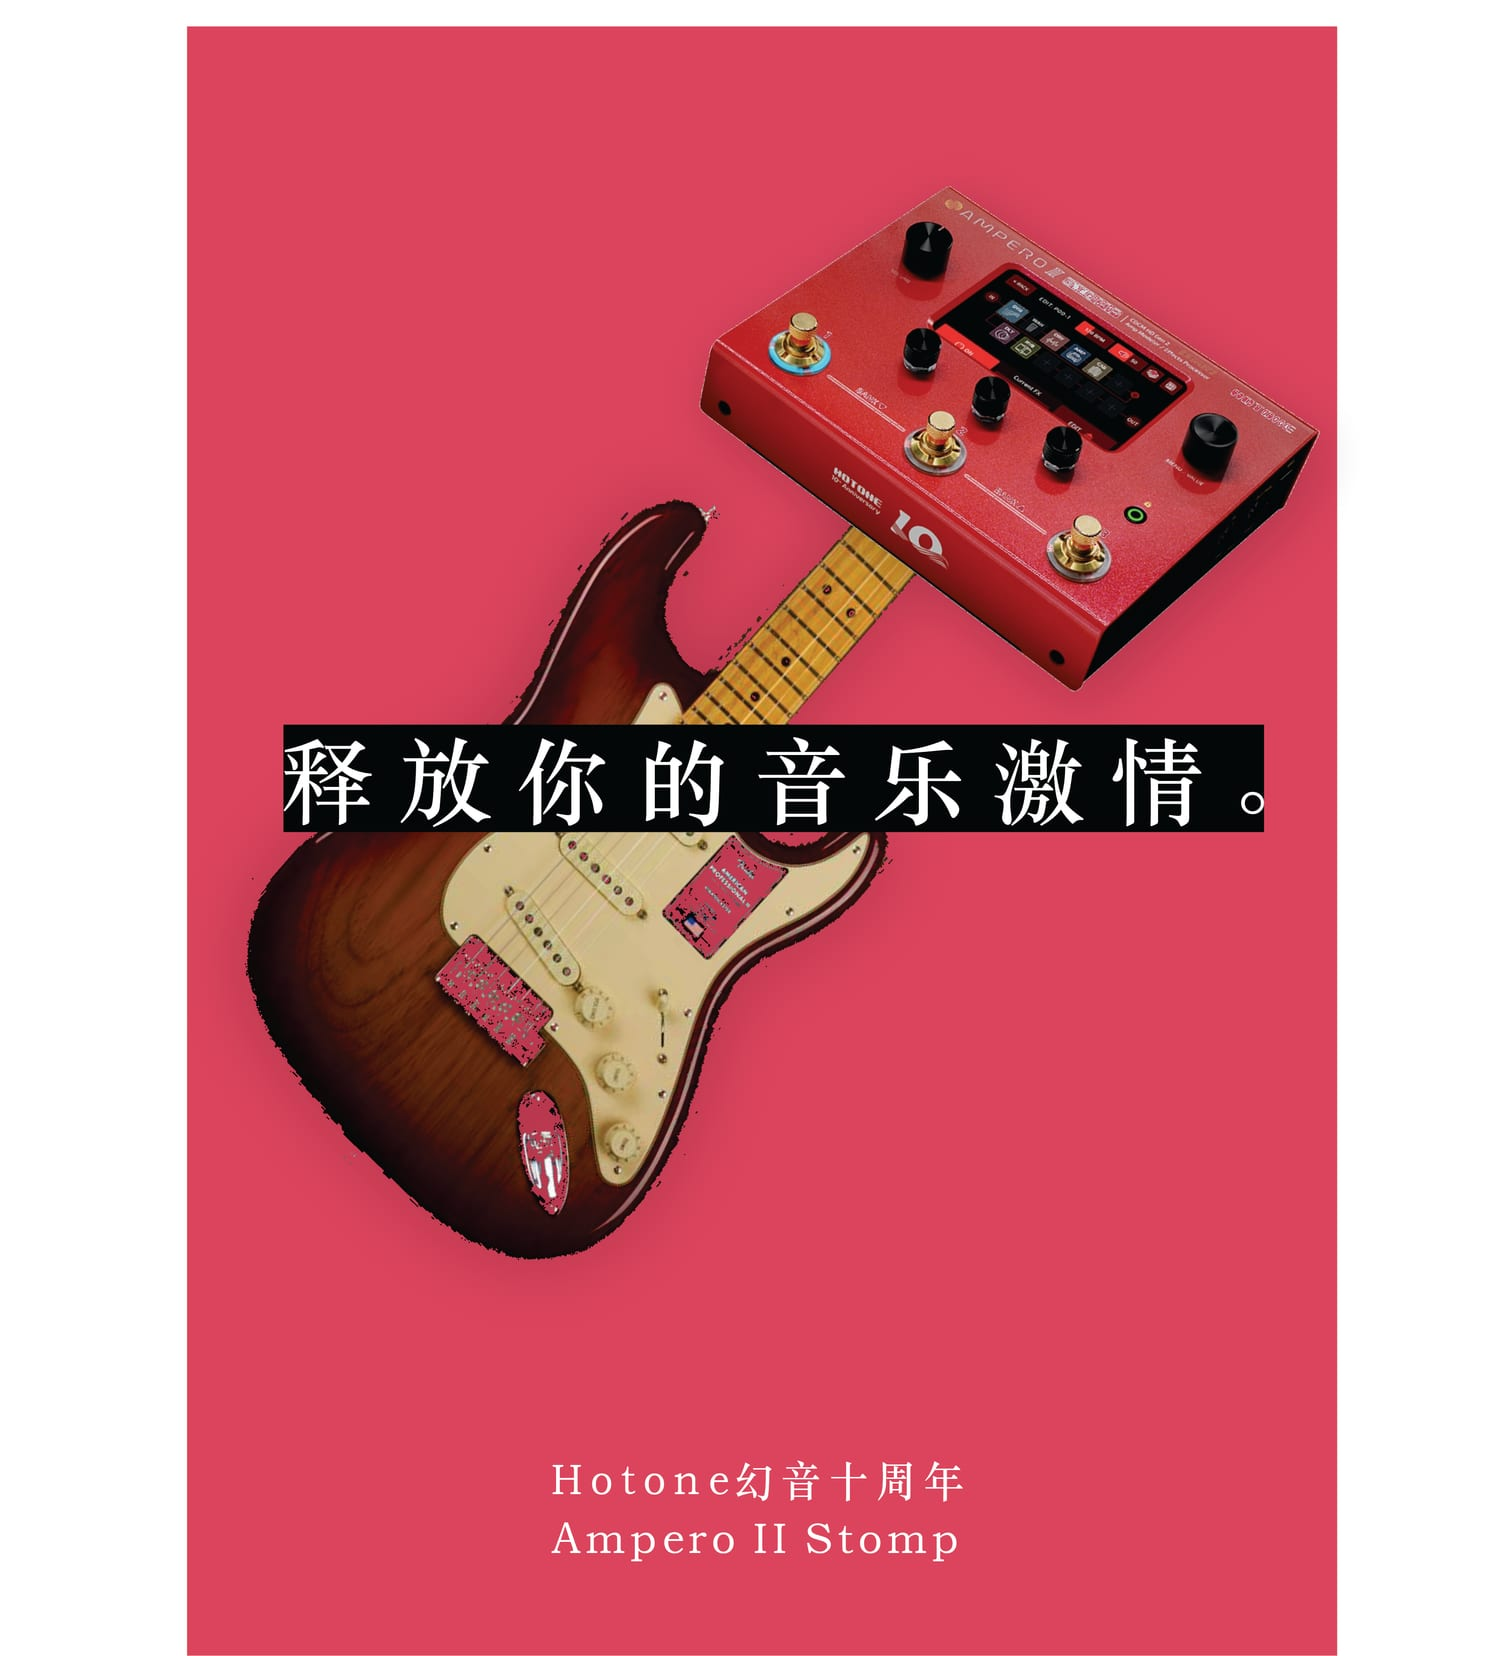
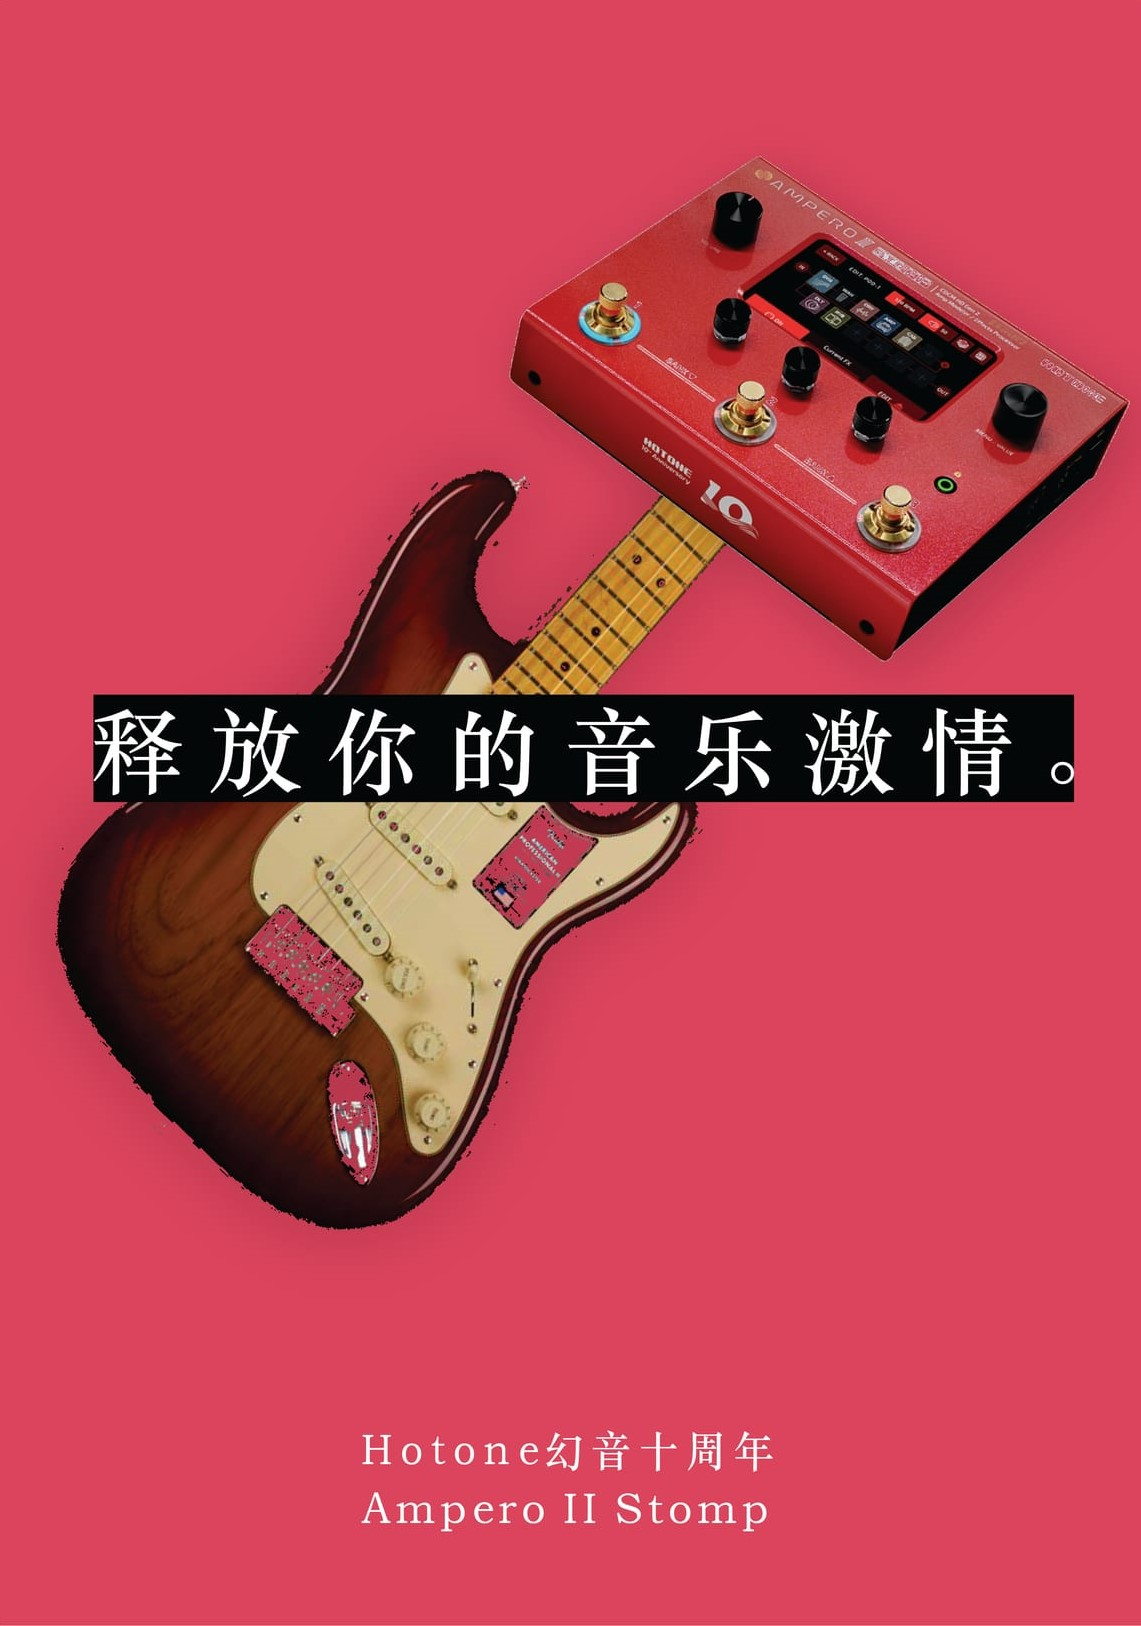
crop visual work media, drop piano duo, sync SUU start year
- sync cropped dimensions for hotone_main/guitar/pedal in html and tests
- replace banner_museum.jpg with png and remove piano_a/b from archive
- align i18n en/zh education dates with Aug 2023 start (a8d461d)
- update content-revision test to the corrected start year

diff --git a/i18n.js b/i18n.js
@@ -91,10 +91,8 @@ const en = {
     '#visual-archive .detail-media:nth-child(2) img': { alt: 'HOTONE product poster featuring an electric guitar and effects processor' },
     '#visual-archive .detail-media:nth-child(3) img': { alt: 'HOTONE Ampero II Stomp product-detail poster' },
     '#visual-archive .detail-media:nth-child(4) img': { alt: 'Coastline JAZZ NIGHT poster variation in orange and dark red' },
-    '#visual-archive .detail-media:nth-child(5) img': { alt: 'Minimal PIANO DUO concert poster' },
-    '#visual-archive .detail-media:nth-child(6) img': { alt: 'PIANO DUO concert poster variation' },
-    '#visual-archive .detail-media:nth-child(7) img': { alt: 'Laoshan folk-arts trifold brochure interior' },
-    '#visual-archive .detail-media:nth-child(8) img': { alt: 'International Museum Day banner for Wuhan Museum' },
+    '#visual-archive .detail-media:nth-child(5) img': { alt: 'Laoshan folk-arts trifold brochure interior' },
+    '#visual-archive .detail-media:nth-child(6) img': { alt: 'International Museum Day banner for Wuhan Museum' },
     '#visual-dialog': { 'aria-label': 'Enlarged visual work' },
     '#visual-dialog .dialog-close': { 'aria-label': 'Close image', 'title': 'Close (Esc)' },
     '#music-nav .lang-switch': { 'aria-label': 'Language' },
@@ -140,11 +138,9 @@ const en = {
     'hotone_pedal.jpg': 'HOTONE Ampero II Stomp product-detail poster',
     'jazz_coast_a.jpg': 'Coastline JAZZ NIGHT concert poster in magenta and deep blue',
     'jazz_coast_b.jpg': 'Coastline JAZZ NIGHT poster variation in orange and dark red',
-    'piano_a.jpg': 'Minimal PIANO DUO concert poster',
-    'piano_b.jpg': 'PIANO DUO concert poster variation',
     'trifold_out.jpg': 'Laoshan folk-arts trifold brochure exterior',
     'trifold_in.jpg': 'Laoshan folk-arts trifold brochure interior',
-    'banner_museum.jpg': 'International Museum Day banner for Wuhan Museum',
+    'banner_museum.png': 'International Museum Day banner for Wuhan Museum',
     'building.webp': 'White residential buildings against a clear blue sky',
     'chongqing.webp': 'Illuminated bridge structure at night in Chongqing',
     'santa_monica_beach.webp': 'A seabird crossing the sunset at Santa Monica Beach',
@@ -241,10 +237,8 @@ const en = {
     '#visual-archive .detail-media:nth-child(2) figcaption': 'HOTONE · Release Your Musical Passion',
     '#visual-archive .detail-media:nth-child(3) figcaption': 'HOTONE · Ampero II Stomp Detail',
     '#visual-archive .detail-media:nth-child(4) figcaption': 'JAZZ NIGHT · Variation',
-    '#visual-archive .detail-media:nth-child(5) figcaption': 'PIANO DUO · Main Poster',
-    '#visual-archive .detail-media:nth-child(6) figcaption': 'PIANO DUO · Variation',
-    '#visual-archive .detail-media:nth-child(7) figcaption': 'Laoshan Folk Arts · Trifold Interior',
-    '#visual-archive .detail-media:nth-child(8) figcaption': 'International Museum Day · Wuhan Museum',
+    '#visual-archive .detail-media:nth-child(5) figcaption': 'Laoshan Folk Arts · Trifold Interior',
+    '#visual-archive .detail-media:nth-child(6) figcaption': 'International Museum Day · Wuhan Museum',
     '#visual-footer span': 'Mukun Sun · Selected Visual Work',
     '#visual-footer a': 'Return to projects',
     '#music-nav .brand': 'Mukun Sun · Music',
@@ -400,7 +394,7 @@ const en = {
     '#projects .project-row:nth-child(3) .project-action': 'View project <span aria-hidden="true">→</span>',
     '#edu .stitle': 'Education',
     '#edu .edu-entry:nth-child(1) .edu-school': 'Southern Utah University',
-    '#edu .edu-entry:nth-child(1) .edu-dates': 'Aug 2025 — May 2027',
+    '#edu .edu-entry:nth-child(1) .edu-dates': 'Aug 2023 — May 2027',
     '#edu .edu-entry:nth-child(1) .edu-degree': 'B.S. in Strategic Communication',
     '#edu .edu-entry:nth-child(1) .edu-secondary': 'Minor · Business Analytics',
     '#edu .edu-entry:nth-child(1) .edu-focus': 'Coursework: Social Media Strategy, Social Media Branding, Strategic Campaigns, Content Creation, Statistical Inference, Data Analytics.',
@@ -515,10 +509,8 @@ const zh = {
     '#visual-archive .detail-media:nth-child(2) img': { alt: '电吉他与效果器构成的 HOTONE 产品海报' },
     '#visual-archive .detail-media:nth-child(3) img': { alt: 'HOTONE Ampero II Stomp 产品特写海报' },
     '#visual-archive .detail-media:nth-child(4) img': { alt: '暖橙与暗红配色的海岸线 JAZZ NIGHT 海报变体' },
-    '#visual-archive .detail-media:nth-child(5) img': { alt: '极简 PIANO DUO 演出海报' },
-    '#visual-archive .detail-media:nth-child(6) img': { alt: 'PIANO DUO 演出海报变体' },
-    '#visual-archive .detail-media:nth-child(7) img': { alt: '崂山民艺文化三折页内页' },
-    '#visual-archive .detail-media:nth-child(8) img': { alt: '武汉博物馆国际博物馆日活动 Banner' },
+    '#visual-archive .detail-media:nth-child(5) img': { alt: '崂山民艺文化三折页内页' },
+    '#visual-archive .detail-media:nth-child(6) img': { alt: '武汉博物馆国际博物馆日活动 Banner' },
     '#visual-dialog': { 'aria-label': '放大的视觉作品' },
     '#visual-dialog .dialog-close': { 'aria-label': '关闭图片', 'title': '关闭（Esc）' },
     '#music-nav .lang-switch': { 'aria-label': '语言' },
@@ -564,11 +556,9 @@ const zh = {
     'hotone_pedal.jpg': 'HOTONE Ampero II Stomp 产品特写海报',
     'jazz_coast_a.jpg': '洋红与深蓝配色的海岸线 JAZZ NIGHT 演出海报',
     'jazz_coast_b.jpg': '暖橙与暗红配色的海岸线 JAZZ NIGHT 海报变体',
-    'piano_a.jpg': '极简 PIANO DUO 演出海报',
-    'piano_b.jpg': 'PIANO DUO 演出海报变体',
     'trifold_out.jpg': '崂山民艺文化三折页外页',
     'trifold_in.jpg': '崂山民艺文化三折页内页',
-    'banner_museum.jpg': '武汉博物馆国际博物馆日活动 Banner',
+    'banner_museum.png': '武汉博物馆国际博物馆日活动 Banner',
     'building.webp': '晴朗蓝天下的白色住宅建筑',
     'chongqing.webp': '重庆夜色中被灯光照亮的桥梁结构',
     'santa_monica_beach.webp': '圣莫尼卡海滩日落前飞过的海鸟',
@@ -665,10 +655,8 @@ const zh = {
     '#visual-archive .detail-media:nth-child(2) figcaption': 'HOTONE · Release Your Musical Passion',
     '#visual-archive .detail-media:nth-child(3) figcaption': 'HOTONE · Ampero II Stomp 细节',
     '#visual-archive .detail-media:nth-child(4) figcaption': 'JAZZ NIGHT · 变体',
-    '#visual-archive .detail-media:nth-child(5) figcaption': 'PIANO DUO · 主海报',
-    '#visual-archive .detail-media:nth-child(6) figcaption': 'PIANO DUO · 变体',
-    '#visual-archive .detail-media:nth-child(7) figcaption': '崂山民艺 · 三折页内页',
-    '#visual-archive .detail-media:nth-child(8) figcaption': '国际博物馆日 · 武汉博物馆',
+    '#visual-archive .detail-media:nth-child(5) figcaption': '崂山民艺 · 三折页内页',
+    '#visual-archive .detail-media:nth-child(6) figcaption': '国际博物馆日 · 武汉博物馆',
     '#visual-footer span': '孙慕坤 · 视觉作品精选',
     '#visual-footer a': '返回项目列表',
     '#music-nav .brand': '孙慕坤 · 音乐',
@@ -824,7 +812,7 @@ const zh = {
     '#projects .project-row:nth-child(3) .project-action': '查看项目 <span aria-hidden="true">→</span>',
     '#edu .stitle': '教育经历',
     '#edu .edu-entry:nth-child(1) .edu-school': '南犹他大学',
-    '#edu .edu-entry:nth-child(1) .edu-dates': '2025.08 — 2027.05',
+    '#edu .edu-entry:nth-child(1) .edu-dates': '2023.08 — 2027.05',
     '#edu .edu-entry:nth-child(1) .edu-degree': '战略传播理学学士（在读）',
     '#edu .edu-entry:nth-child(1) .edu-secondary': '辅修 · 商业分析',
     '#edu .edu-entry:nth-child(1) .edu-focus': '课程：社交媒体策略、社交媒体品牌、战略传播活动、内容创作、统计推断、数据分析。',

diff --git a/projects/visual-work.html b/projects/visual-work.html
@@ -50,7 +50,7 @@
     <section class="detail-section" id="visual-lead" aria-labelledby="visual-lead-title" data-reveal>
       <h2 id="visual-lead-title">Selected work</h2>
       <div class="detail-grid">
-        <figure class="detail-media" data-reveal="media"><a class="media-button" href="../assets/visual_work/hotone_main.jpg" data-enlarge><img src="../assets/visual_work/hotone_main.jpg" width="1500" height="2120" alt="HOTONE tenth-anniversary product poster for the Ampero II Stomp" loading="lazy" decoding="async"></a><figcaption>HOTONE · Tenth-Anniversary Poster</figcaption></figure>
+        <figure class="detail-media" data-reveal="media"><a class="media-button" href="../assets/visual_work/hotone_main.jpg" data-enlarge><img src="../assets/visual_work/hotone_main.jpg" width="1486" height="2106" alt="HOTONE tenth-anniversary product poster for the Ampero II Stomp" loading="lazy" decoding="async"></a><figcaption>HOTONE · Tenth-Anniversary Poster</figcaption></figure>
         <figure class="detail-media" data-reveal="media"><a class="media-button" href="../assets/visual_work/jazz_coast_a.jpg" data-enlarge><img src="../assets/visual_work/jazz_coast_a.jpg" width="1300" height="1828" alt="Coastline JAZZ NIGHT concert poster in magenta and deep blue" loading="lazy" decoding="async"></a><figcaption>JAZZ NIGHT · Coastline</figcaption></figure>
         <figure class="detail-media" data-reveal="media"><a class="media-button" href="../assets/visual_work/trifold_out.jpg" data-enlarge><img src="../assets/visual_work/trifold_out.jpg" width="1800" height="1369" alt="Laoshan folk-arts trifold brochure exterior" loading="lazy" decoding="async"></a><figcaption>Laoshan Folk Arts · Trifold Exterior</figcaption></figure>
       </div>
@@ -60,13 +60,11 @@
       <h2 id="visual-archive-title">Archive</h2>
       <div class="detail-grid">
         <figure class="detail-media" data-reveal="media"><a class="media-button" href="../assets/visual_work/jazz_winter.jpg" data-enlarge><img src="../assets/visual_work/jazz_winter.jpg" width="989" height="1400" alt="Winter Jazz Concert key visual poster designed for a hotel jazz event" loading="lazy" decoding="async"></a><figcaption>Winter Jazz Concert · Hotel Event Visual</figcaption></figure>
-        <figure class="detail-media" data-reveal="media"><a class="media-button" href="../assets/visual_work/hotone_guitar.jpg" data-enlarge><img src="../assets/visual_work/hotone_guitar.jpg" width="1500" height="1656" alt="HOTONE product poster featuring an electric guitar and effects processor" loading="lazy" decoding="async"></a><figcaption>HOTONE · Release Your Musical Passion</figcaption></figure>
-        <figure class="detail-media" data-reveal="media"><a class="media-button" href="../assets/visual_work/hotone_pedal.jpg" data-enlarge><img src="../assets/visual_work/hotone_pedal.jpg" width="1500" height="1928" alt="HOTONE Ampero II Stomp product-detail poster" loading="lazy" decoding="async"></a><figcaption>HOTONE · Ampero II Stomp Detail</figcaption></figure>
+        <figure class="detail-media" data-reveal="media"><a class="media-button" href="../assets/visual_work/hotone_guitar.jpg" data-enlarge><img src="../assets/visual_work/hotone_guitar.jpg" width="1141" height="1626" alt="HOTONE product poster featuring an electric guitar and effects processor" loading="lazy" decoding="async"></a><figcaption>HOTONE · Release Your Musical Passion</figcaption></figure>
+        <figure class="detail-media" data-reveal="media"><a class="media-button" href="../assets/visual_work/hotone_pedal.jpg" data-enlarge><img src="../assets/visual_work/hotone_pedal.jpg" width="1322" height="1880" alt="HOTONE Ampero II Stomp product-detail poster" loading="lazy" decoding="async"></a><figcaption>HOTONE · Ampero II Stomp Detail</figcaption></figure>
         <figure class="detail-media" data-reveal="media"><a class="media-button" href="../assets/visual_work/jazz_coast_b.jpg" data-enlarge><img src="../assets/visual_work/jazz_coast_b.jpg" width="1300" height="1828" alt="Coastline JAZZ NIGHT poster variation in orange and dark red" loading="lazy" decoding="async"></a><figcaption>JAZZ NIGHT · Variation</figcaption></figure>
-        <figure class="detail-media" data-reveal="media"><a class="media-button" href="../assets/visual_work/piano_a.jpg" data-enlarge><img src="../assets/visual_work/piano_a.jpg" width="1300" height="1838" alt="Minimal PIANO DUO concert poster" loading="lazy" decoding="async"></a><figcaption>PIANO DUO · Main Poster</figcaption></figure>
-        <figure class="detail-media" data-reveal="media"><a class="media-button" href="../assets/visual_work/piano_b.jpg" data-enlarge><img src="../assets/visual_work/piano_b.jpg" width="1300" height="1828" alt="PIANO DUO concert poster variation" loading="lazy" decoding="async"></a><figcaption>PIANO DUO · Variation</figcaption></figure>
         <figure class="detail-media" data-reveal="media"><a class="media-button" href="../assets/visual_work/trifold_in.jpg" data-enlarge><img src="../assets/visual_work/trifold_in.jpg" width="1800" height="1369" alt="Laoshan folk-arts trifold brochure interior" loading="lazy" decoding="async"></a><figcaption>Laoshan Folk Arts · Trifold Interior</figcaption></figure>
-        <figure class="detail-media" data-reveal="media"><a class="media-button" href="../assets/visual_work/banner_museum.jpg" data-enlarge><img src="../assets/visual_work/banner_museum.jpg" width="1084" height="437" alt="International Museum Day banner for Wuhan Museum" loading="lazy" decoding="async"></a><figcaption>International Museum Day · Wuhan Museum</figcaption></figure>
+        <figure class="detail-media" data-reveal="media"><a class="media-button" href="../assets/visual_work/banner_museum.png" data-enlarge><img src="../assets/visual_work/banner_museum.png" width="1983" height="793" alt="International Museum Day banner for Wuhan Museum" loading="lazy" decoding="async"></a><figcaption>International Museum Day · Wuhan Museum</figcaption></figure>
       </div>
     </section>
   </main>
